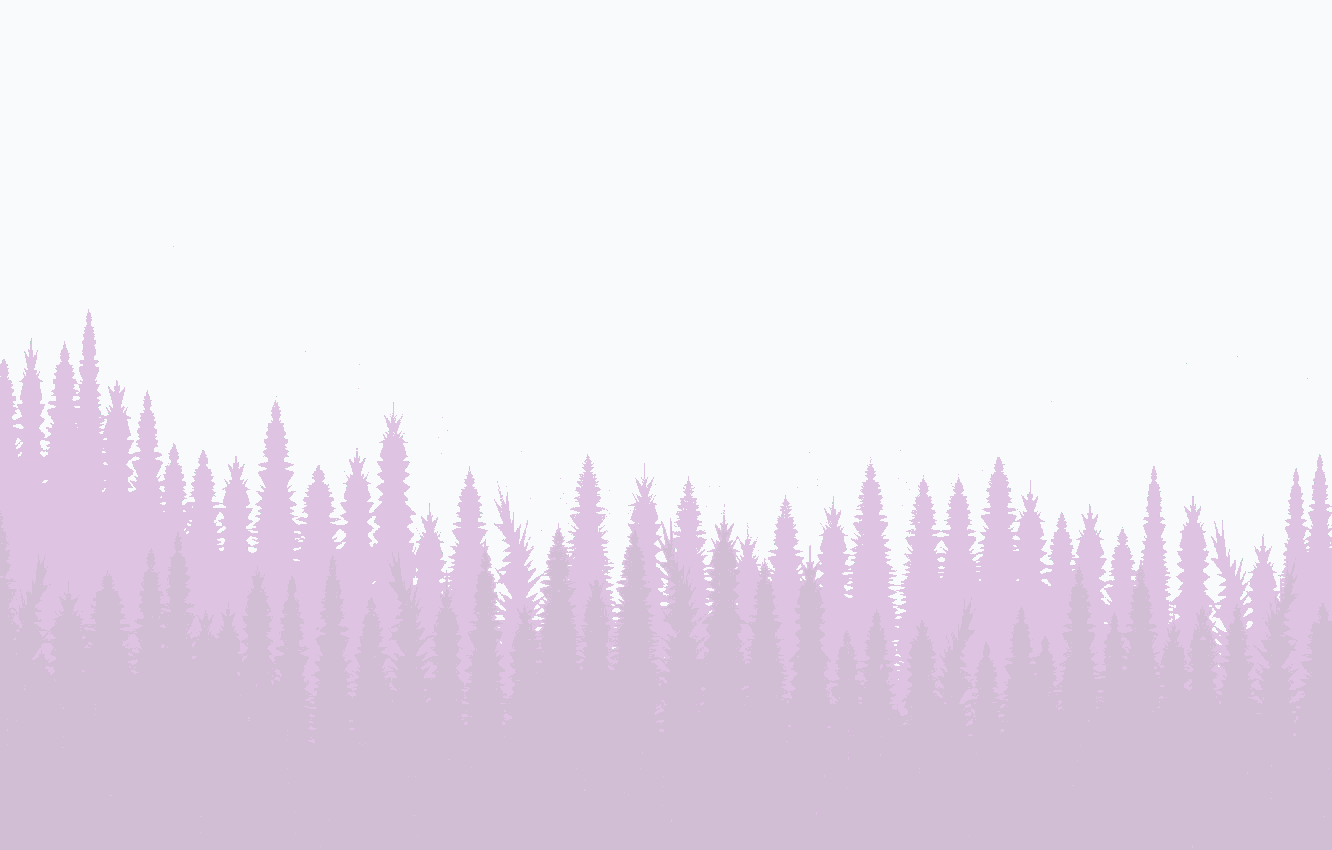
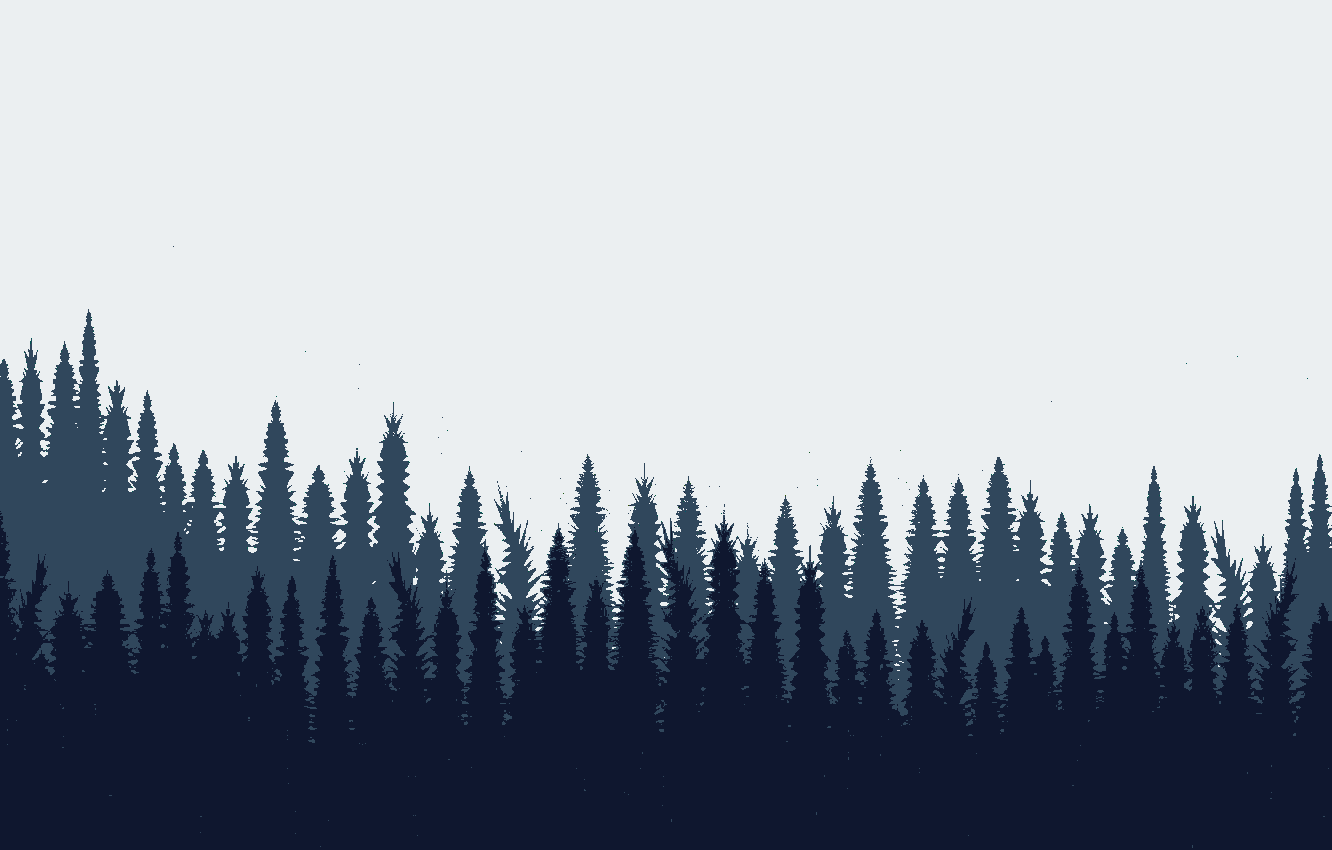
Add fates demise

diff --git a/src/app/shop/diluted_truths/page.tsx b/src/app/shop/diluted_truths/page.tsx
@@ -1,18 +1,36 @@
 import BookPage from "../components/BookPage";
 import BookPageData from "../components/BookPageData";
-import dilutedTruths from "../../assets/images/diluted_truths.jpg";
-import image1 from '../../assets/images/diluted_truths_1.png';
-import image2 from '../../assets/images/diluted_truths_2.png';
-import image3 from '../../assets/images/diluted_truths_3.jpg';
-import image4 from '../../assets/images/diluted_truths_4.jpg';
-import image5 from '../../assets/images/diluted_truths_5.png';
-import Image from "next/image";
+import dilutedTruths from "../../assets/images/diluted_truths/diluted_truths.jpg";
+import image1 from '../../assets/images/diluted_truths/diluted_truths_1.png';
+import image2 from '../../assets/images/diluted_truths/diluted_truths_2.png';
+import image3 from '../../assets/images/diluted_truths/diluted_truths_3.png';
+import image4 from '../../assets/images/diluted_truths/diluted_truths_4.png';
+import image5 from '../../assets/images/diluted_truths/diluted_truths_5.png';
 
 
 const DilutedTruths = (props: {}) => {
     const data: BookPageData = {
         image: dilutedTruths,
-        summary: "<strong class='names'><i>Jackie</i></strong><br><br>Have you ever found yourself in a situation that just seems to get messier by the second? Well, I have. Quite a few times. But researching the Cult of Creatio was slowly becoming the messiest situation yet.<br><br>To make matters worse, I was slowly falling for the one man I shouldn’t. The man my mentor had sworn me off. The man who was slowly invading my every thought. The man who decided to help me research the cult and I was now spending almost every day with. That man was William Bly.<br><br><strong class='names'><i>Will</i></strong><br><br>Love wasn’t something I did. It was something I avoided. I had spent a lifetime keeping the darkness within myself hidden. Love could expose it. I avoided it like the plague.<br><br>Yet, every time I looked at Jackie James, the darkness disappeared bit by bit. She was slowly becoming my world. But, I couldn’t have her. Couldn’t love her.<br><br>Right?",
+        summary: `<strong class='names'><i>Jackie</i></strong>
+        <br><br>
+        Have you ever found yourself in a situation that just seems to get messier by the second? 
+        Well, I have. Quite a few times. But researching the Cult of Creatio was slowly becoming 
+        the messiest situation yet.
+        <br><br>
+        To make matters worse, I was slowly falling for the one man I shouldn't. 
+        The man my mentor had sworn me off. The man who was slowly invading my every thought. 
+        The man who decided to help me research the cult and I was now spending almost every day with. 
+        That man was William Bly.
+        <br><br>
+        <strong class='names'><i>Will</i></strong>
+        <br><br>
+        Love wasn't something I did. It was something I avoided. I had spent a lifetime keeping 
+        the darkness within myself hidden. Love could expose it. I avoided it like the plague.
+        <br><br>
+        Yet, every time I looked at Jackie James, the darkness disappeared bit by bit. 
+        She was slowly becoming my world. But, I couldn't have her. Couldn't love her.
+        <br><br>
+        Right?`,
         links: [
             {
                 name: "Amazon",
@@ -34,15 +52,6 @@ const DilutedTruths = (props: {}) => {
     return (
         <div className="book-page-wrapper">
             <BookPage data={data} />
-            <div id="media-section">
-                {
-                    data.media.map((image, i) => {
-                        return <div className="media-div" key={i}>
-                            <Image priority={true} className="media-image" src={image} alt={`media image ${i}`} />
-                        </div>
-                    })
-                }
-            </div>
         </div>
     )
 }

diff --git a/src/app/shop/fates_demise/page.tsx b/src/app/shop/fates_demise/page.tsx
@@ -1,0 +1,64 @@
+import BookPageData from "../components/BookPageData";
+import fatesDemise from '../../assets/images/fates_demise/fates_demise.jpg';
+import BookPage from "../components/BookPage";
+import image1 from '../../assets/images/fates_demise/fates_demise_1.png';
+import image2 from '../../assets/images/fates_demise/fates_demise_2.png';
+import image3 from '../../assets/images/fates_demise/fates_demise_3.png';
+import image4 from '../../assets/images/fates_demise/fates_demise_4.png';
+import image5 from '../../assets/images/fates_demise/fates_demise_5.png';
+
+const FatesDemise = (props: {}) => {
+    const data: BookPageData = {
+        image: fatesDemise,
+        summary: `
+        <strong class='names'><i>Nate</i></strong>
+        <br><br>
+        Surviving as a captive for nearly eight years was hard. 
+        Recovering from those years was harder. I couldn't trust my thoughts, 
+        my memories, or my dreams. Detective Scarlett Guerrero, the only assigned 
+        security detail I hadn't tried to escape from, had become my only reprieve 
+        from my mind. She offered safety, warmth, and light in my dimly lit reality.
+        Scarlett was all I wanted.
+        <br><br>
+        Getting involved with me put her at risk. The people who had taken me were still out there. 
+        The people who had harassed and attacked my family for years had never been captured.
+        <br><br>
+        Would I have to choose between keeping her safe and keeping her?
+
+        <br><br>
+        <strong class='names'><i>Scarlett</i></strong>
+        <br><br>
+        Being assigned as Nate James' security detail was the start of a slippery slope. 
+        I was supposed to keep him safe from the people who held him captive for nearly eight years. 
+        I needed to find the people responsible for hurting him and his family. 
+        I wasn't supposed to get lost in his icy blue eyes, 
+        I wasn't supposed to spend every night with him as he battled his nightmares, 
+        I wasn't supposed to fall head over heels for him. If my captain were to find out about our relationship, my career would be over.
+
+        <br><br>
+        Being with Nate James risked everything I had worked for.
+        <br><br>
+        Was he worth the risk?
+        `,
+        links: [
+            {
+                name: "Amazon",
+                url: "https://www.amazon.com/gp/product/B0DP1D8MHK?ref_=dbs_m_mng_rwt_calw_tkin_2&storeType=ebooks"
+            },
+            {
+                name: "Goodreads",
+                url: "https://www.goodreads.com/book/show/221931470-fates-demise"
+            }
+        ],
+        id: "fates_demise",
+        media: [image1, image2, image3, image4, image5]
+    }
+
+    return (
+        <div className="book-page-wrapper">
+            <BookPage data={data} />
+        </div>
+    )
+}
+
+export default FatesDemise;

diff --git a/src/app/shop/components/BookPage.tsx b/src/app/shop/components/BookPage.tsx
@@ -6,33 +6,47 @@ import '../../css/BookPage.css';
 
 const BookPage = (props: { data: BookPageData }) => {
     const { data } = props;
-
+    
     return (
-        <div className="book-page-container">
-            <div id={data.id} className="book-panel">
-                <div id="left-side">
-                    <Image id="book-image" src={data.image} alt="Book cover image" />
-
-                    <div id="links-section">
-                        {
-                            data.links.map((link, i) => {
-                                return (
-                                    <a key={i} className="page-links" href={link.url} target="_blank" rel="noreferrer">
-                                        <button type="button" className={`book-page-buttons ${data.id} btn btn-primary`}>
+        <div>
+            <div className="book-page-container">
+                <div id={data.id} className="book-panel">
+                    <div id="left-side">
+                        <Image id="book-image" src={data.image} alt="Book cover image" />
+        
+                        <div id="links-section">
+                            {
+                                data.links.map((link, i) => {
+                                    return (
+                                        <a key={i} className="page-links" href={link.url} target="_blank" rel="noreferrer">
+                                            <button type="button" className={`book-page-buttons ${data.id} btn btn-primary`}>
                                             {link.name}
-                                        </button>
-                                    </a>
-
-                                )
-                            })
-                        }
+                                            </button>
+                                        </a>
+                    
+                                    )
+                                })
+                            }
+                        </div>
                     </div>
+        
+                    <span id="book-summary" dangerouslySetInnerHTML={{__html: data.summary}}></span>
+        
                 </div>
-
-                <span id="book-summary" dangerouslySetInnerHTML={{__html: data.summary}}></span>
-
+        
+        
+            </div>
+            <div className="media-section">
+            {
+                data.media.map((image, i) => {
+                    return <div className="media-div" key={i}>
+                    <Image priority={true} className="media-image" src={image} alt={`media image ${i}`} />
+                    </div>
+                })
+            }
             </div>
         </div>
+        
     )
 }
 

diff --git a/src/app/components/home/HomePage.tsx b/src/app/components/home/HomePage.tsx
@@ -1,7 +1,8 @@
 import Book from "./Book";
 import NewRelease from "./NewRelease";
-// import dilutedTruths from "../../assets/images/diluted_truths.jpg";
-import followingFortunes from "../../assets/images/following_fortunes.png";
+// import dilutedTruths from "../../assets/images/diluted_truths/diluted_truths.jpg";
+// import followingFortunes from "../../assets/images/following_fortunes/following_fortunes.png";
+import fatesDemise from "../../assets/images/fates_demise/fates_demise.jpg";
 
 const HomePage = (props: {}) => {
     // const book: Book = {
@@ -11,11 +12,18 @@ const HomePage = (props: {}) => {
     //     "cover_image": dilutedTruths
     // }
 
+    // const book: Book = {
+    //     name: "Following Fortunes\nThe Advocates: Book Two",
+    //     tropes: ["He Falls First", "Marriage of Convenience", "Best Friend's Sister", "Romantic Suspense", "Single Mom"],
+    //     url: "/shop/following_fortunes",
+    //     cover_image: followingFortunes
+    // }
+
     const book: Book = {
-        name: "Following Fortunes\nThe Advocates: Book Two",
-        tropes: ["He Falls First", "Marriage of Convenience", "Best Friend's Sister", "Romantic Suspense", "Single Mom"],
-        url: "/shop/following_fortunes",
-        cover_image: followingFortunes
+        "name": `Fate's Demise`,
+        "tropes": ["Slow Burn", "Healing Heroine", "Tortured Past MMC", "Forced Proximity"],
+        "url": "/shop/fates_demise",
+        "cover_image": fatesDemise
     }
 
     return (

diff --git a/src/app/css/BookPage.css b/src/app/css/BookPage.css
@@ -6,6 +6,10 @@
     background-color: #AC90C0;
 }
 
+#fates_demise {
+    background-color: #29485F;
+}
+
 #following_fortunes_text {
     font-size: 30px;
 }
@@ -52,7 +56,7 @@
     max-width: 220.5px;
 }
 
-#media-section {
+.media-section {
     display: flex;
     width: 100%;
     margin-top: 3vh;
@@ -81,8 +85,8 @@
 }
 
 .book-page-buttons, .book-page-buttons:link, .book-page-buttons:focus, .book-page-buttons:scope, .book-page-buttons:visited, .book-page-buttons:active {
-    background-color: #EBEEF0;
-    color: rgb(145, 53, 162);
+    background-color: #BBC9DD;
+    color: #0C1731;
     margin: 5px;
     width: 100%;
 }
@@ -94,6 +98,16 @@ button.diluted_truths:hover, button.diluted_truths:active:hover {
 
 button.following_fortunes:hover, button.following_fortunes:active:hover {
     background-color: rgb(235, 219, 237);
+    color: rgb(145, 53, 162);
+}
+
+button.fates_demise:hover, button.fates_demise:active:hover {
+    background-color: #698198;
+    color: #0C1731;
+}
+
+.following_fortunes, .following_fortunes:link, .following_fortunes:focus, .following_fortunes:scope, .following_fortunes:visited, .following_fortunes:active {
+    background-color: #EBEEF0;
     color: rgb(145, 53, 162);
 }
 
@@ -145,7 +159,7 @@ button.following_fortunes:hover, button.following_fortunes:active:hover {
         margin-right: 2vw;
     }
 
-    #media-section {
+    .media-section {
         flex-direction: column;
     }
 

diff --git a/src/app/shop/following_fortunes/page.tsx b/src/app/shop/following_fortunes/page.tsx
@@ -1,6 +1,11 @@
 import BookPageData from "../components/BookPageData";
-import followingFortunes from '../../assets/images/following_fortunes.png';
+import followingFortunes from '../../assets/images/following_fortunes/following_fortunes.png';
 import BookPage from "../components/BookPage";
+import image1 from '../../assets/images/following_fortunes/following_fortunes_1.png';
+import image2 from '../../assets/images/following_fortunes/following_fortunes_2.png';
+import image3 from '../../assets/images/following_fortunes/following_fortunes_3.png';
+import image4 from '../../assets/images/following_fortunes/following_fortunes_4.png';
+import image5 from '../../assets/images/following_fortunes/following_fortunes_5.png';
 
 const FollowingFortunes = (props: {}) => {
     const data: BookPageData = {
@@ -45,7 +50,7 @@ const FollowingFortunes = (props: {}) => {
             }
         ],
         id: "following_fortunes",
-        media: []
+        media: [image1, image2, image3, image4, image5]
     }
 
     return (

diff --git a/src/app/shop/page.tsx b/src/app/shop/page.tsx
@@ -1,5 +1,6 @@
-import dilutedTruths from "../assets/images/diluted_truths.jpg";
-import followingFortunes from '../assets/images/following_fortunes.png';
+import dilutedTruths from "../assets/images/diluted_truths/diluted_truths.jpg";
+import followingFortunes from '../assets/images/following_fortunes/following_fortunes.png';
+import fatesDemise from '../assets/images/fates_demise/fates_demise.jpg';
 import '../css/Shop.css';
 import ShopLink from "./components/ShopLink";
 import Book from "../components/home/Book";
@@ -20,6 +21,14 @@ const Shop = (props: {}) => {
             "tropes": [],
             "url": "/shop/following_fortunes",
             "cover_image": followingFortunes
+        },
+        {
+            "name": `Fate's Demise
+            <br>
+            The Advocates: Book Three`,
+            "tropes": ["Slow Burn", "Healing Heroine", "Tortured Past MMC", "Forced Proximity"],
+            "url": "/shop/fates_demise",
+            "cover_image": fatesDemise
         }
     ]
 
